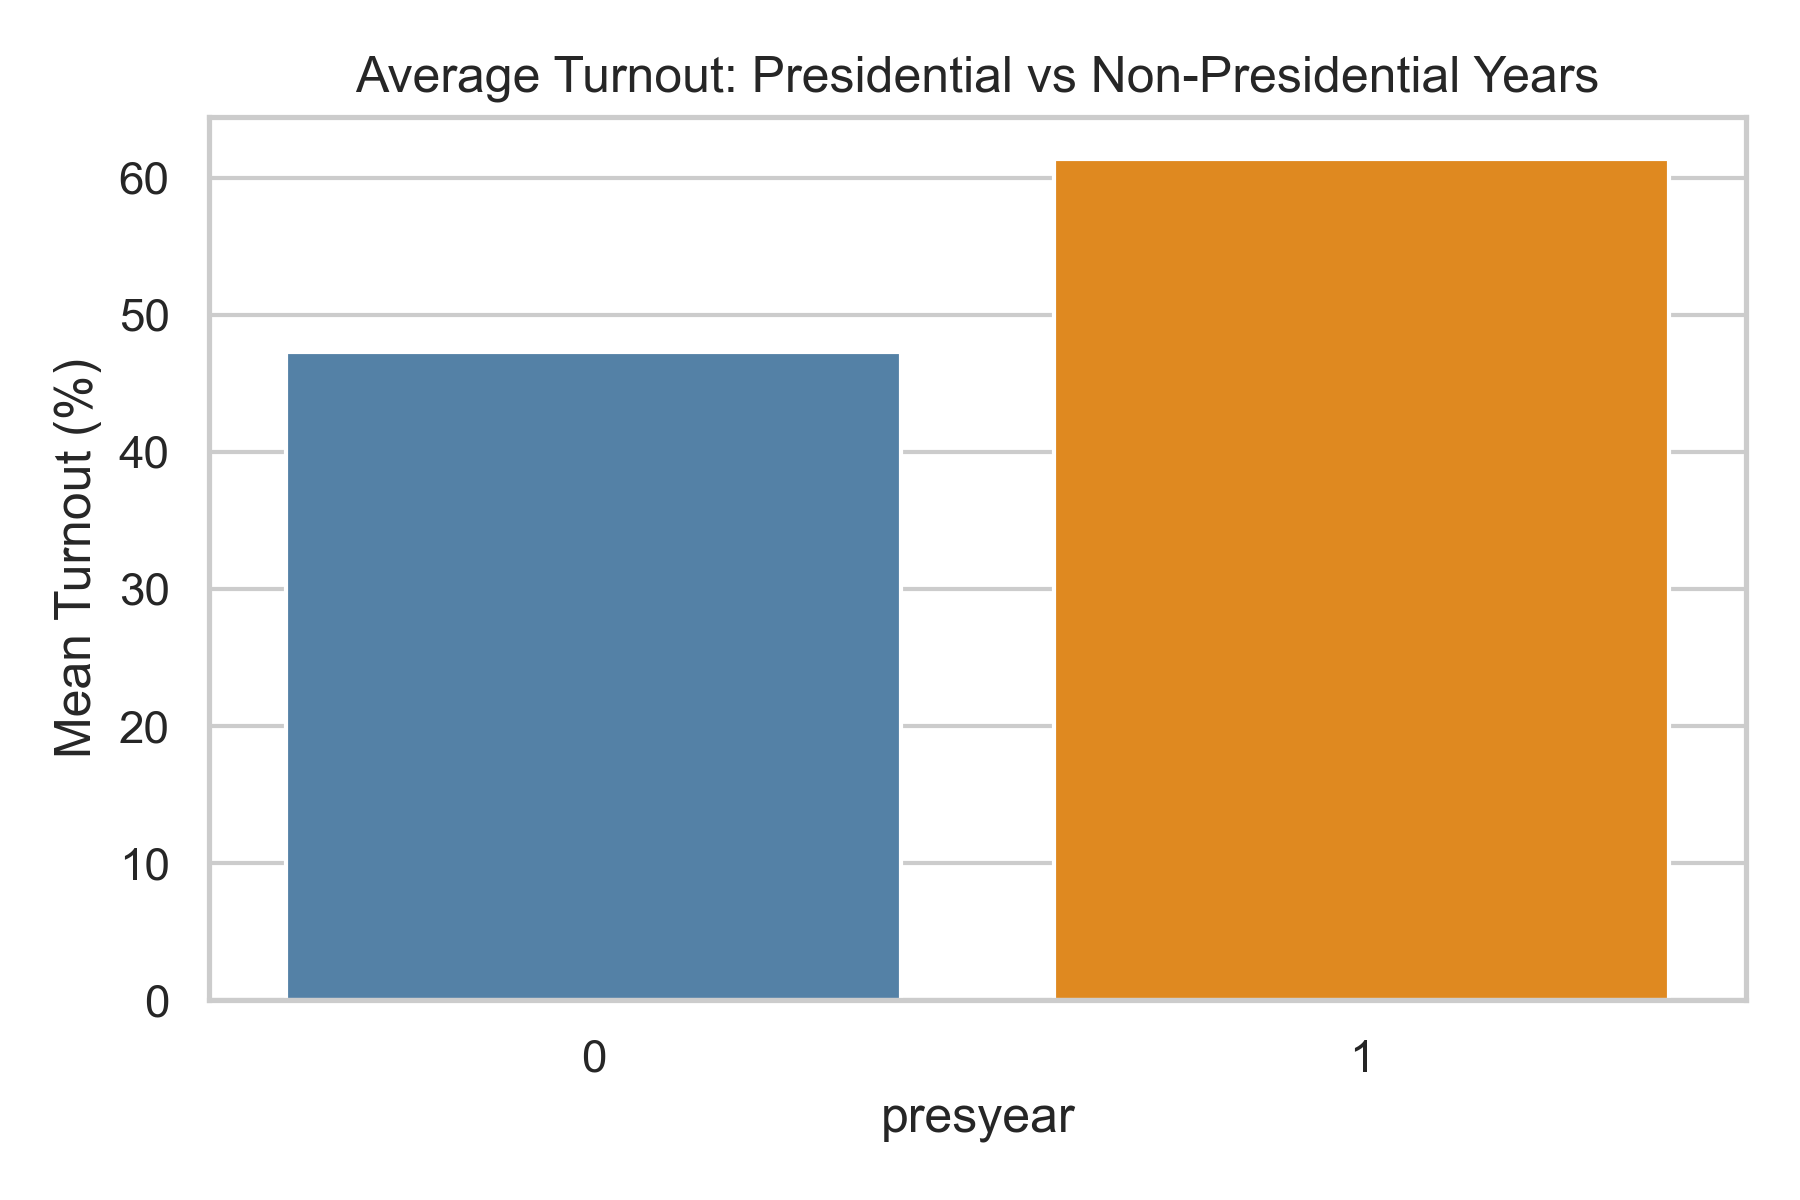
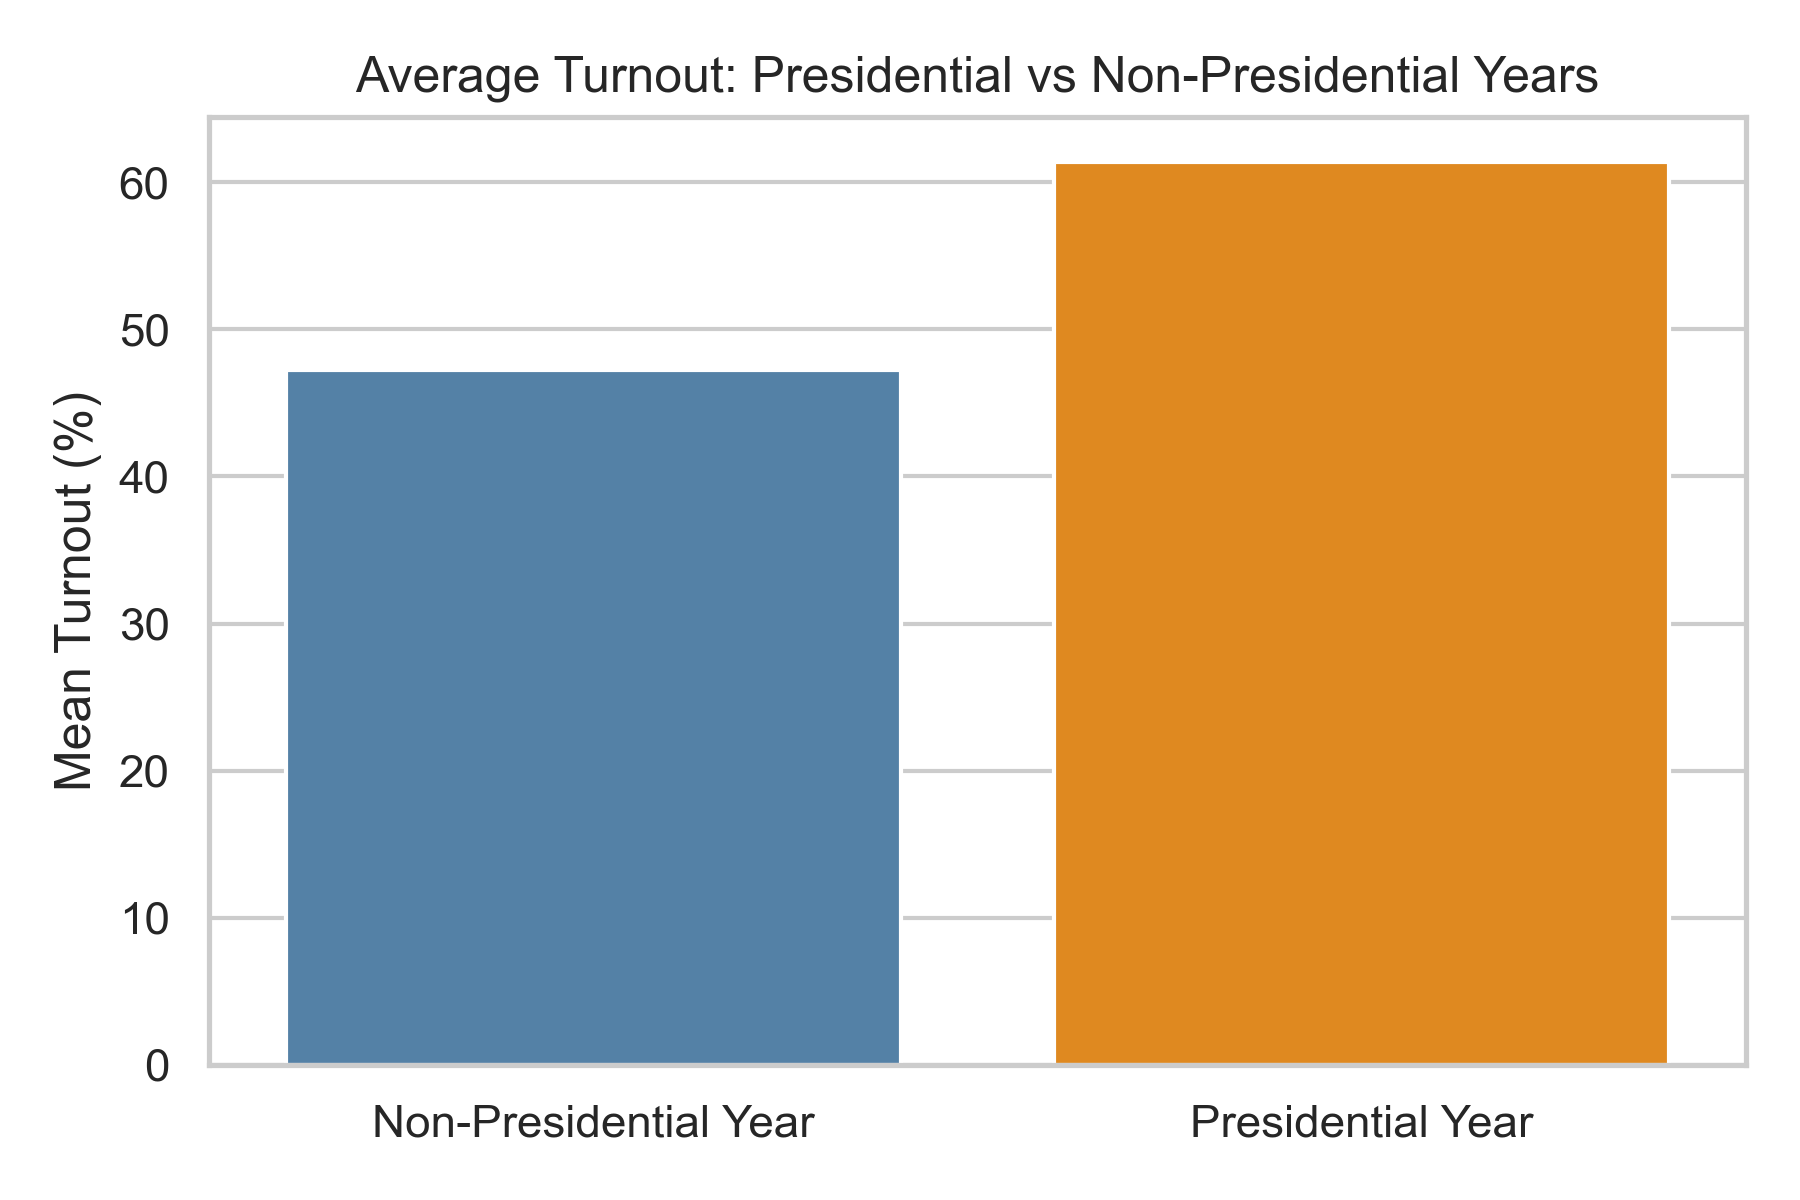
a

diff --git a/problemset2.py b/problemset2.py
@@ -177,45 +177,57 @@ plt.show()
 plt.close()
 
 # Presidential Year
+# Recode presidential year variable for plotting
+df["presyear_label"] = df["presyear"].map({
+    0: "Non-Presidential Year",
+    1: "Presidential Year"
+})
+
 plt.figure(figsize=(6,4))
 
-pres_means = df.groupby("presyear")["turnout_pct"].mean().reset_index()
+pres_means = df.groupby("presyear_label")["turnout_pct"].mean().reset_index()
 
 sns.barplot(
-    x="presyear",
+    x="presyear_label",
     y="turnout_pct",
-    hue="presyear",
     data=pres_means,
-    palette=["steelblue", "darkorange"],
-    legend=False
+    order=["Non-Presidential Year", "Presidential Year"],
+    palette=["steelblue", "darkorange"]
 )
 
 plt.title("Average Turnout: Presidential vs Non-Presidential Years")
 plt.ylabel("Mean Turnout (%)")
+plt.xlabel("")
 
 plt.tight_layout()
 plt.savefig("outputs/turnout_by_presyear_bar.png", dpi=300)
 plt.show()
 plt.close()
-  
+   
 # Law Change
+# Recode law change variable for plotting
+df["lawchange_label"] = df["lawchange"].map({
+    0: "Otherwise",
+    1: "First Year After Law Change"
+})
+
 plt.figure(figsize=(6,4))
 
-law_means = df.groupby("lawchange")["turnout_pct"].mean().reset_index()
+law_means = df.groupby("lawchange_label")["turnout_pct"].mean().reset_index()
 
 sns.barplot(
-    x="lawchange",
+    x="lawchange_label",
     y="turnout_pct",
-    hue="lawchange",
     data=law_means,
-    palette=["steelblue", "darkorange"],
-    legend=False
+    order=["Otherwise", "First Year After Law Change"],
+    palette=["steelblue", "darkorange"]
 )
 
 plt.title("Average Turnout Around Law Changes")
 plt.ylabel("Mean Turnout (%)")
+plt.xlabel("")
 
-plt.tight_layout() 
+plt.tight_layout()
 plt.savefig("outputs/turnout_by_lawchange_bar.png", dpi=300)
 plt.show()
 plt.close()
